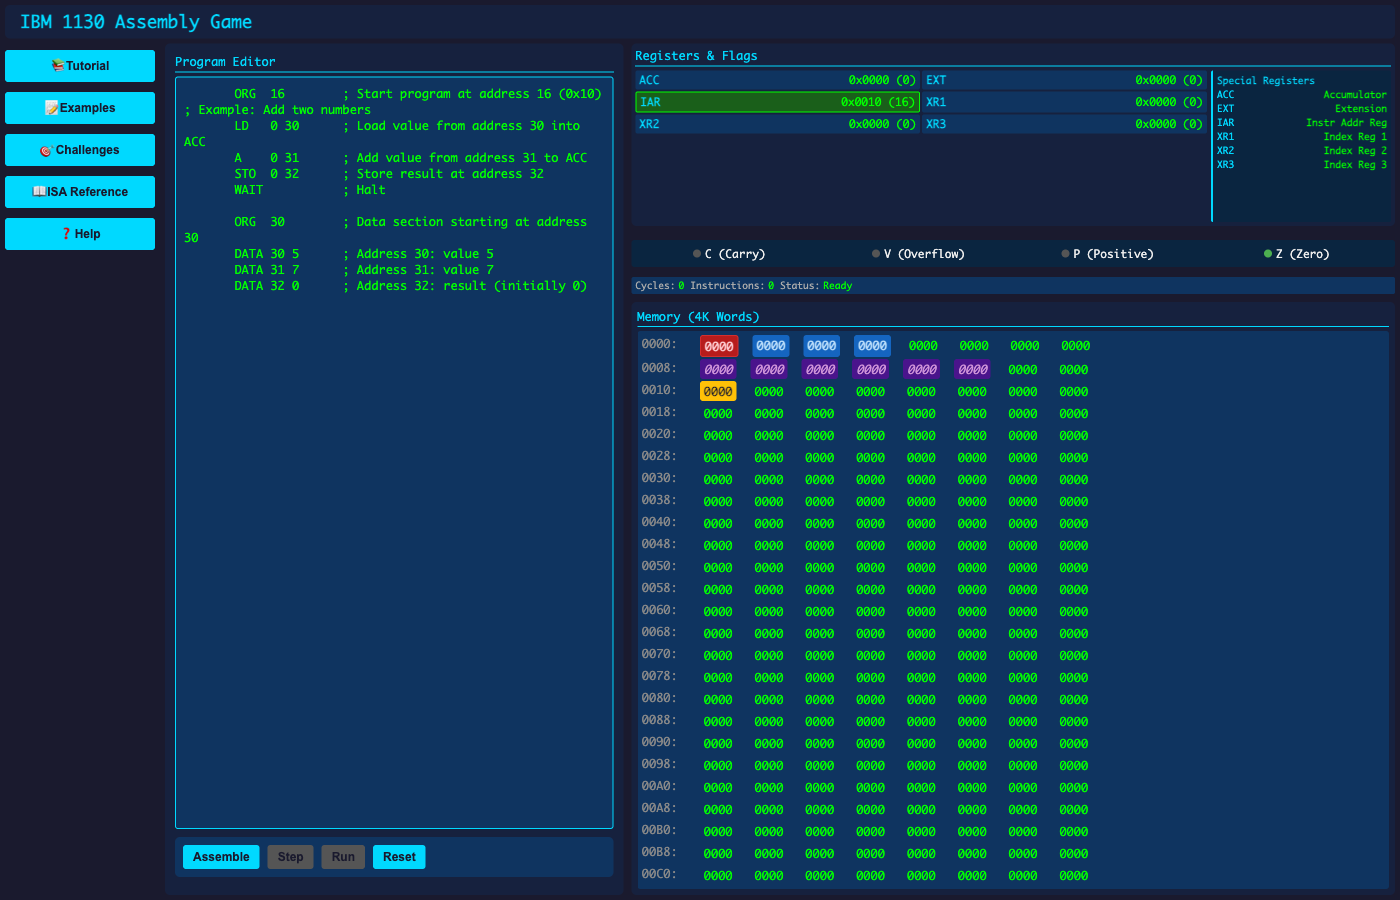
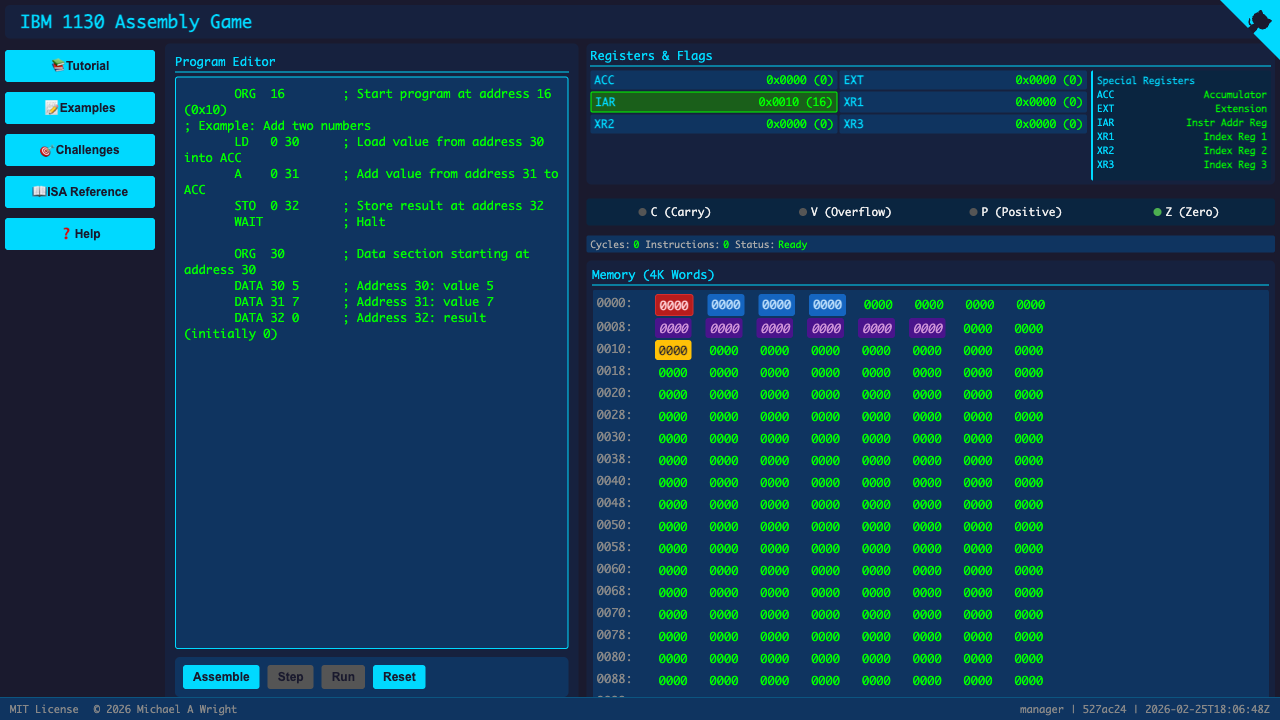
docs: Update screenshot with GitHub corner and footer

Changed region(s): [[0.0, 0.0, 1.0, 1.0]]

diff --git a/README.md b/README.md
@@ -6,7 +6,7 @@ An interactive browser-based educational game for learning the IBM 1130 instruct
 
 **[Try it online](https://sw-comp-history.github.io/ibm-1130-rs/)**
 
-![IBM 1130 Emulator Screenshot](images/screenshot.png?ts=1772042347000)
+![IBM 1130 Emulator Screenshot](images/screenshot.png?ts=1772042916000)
 
 ## Features
 
